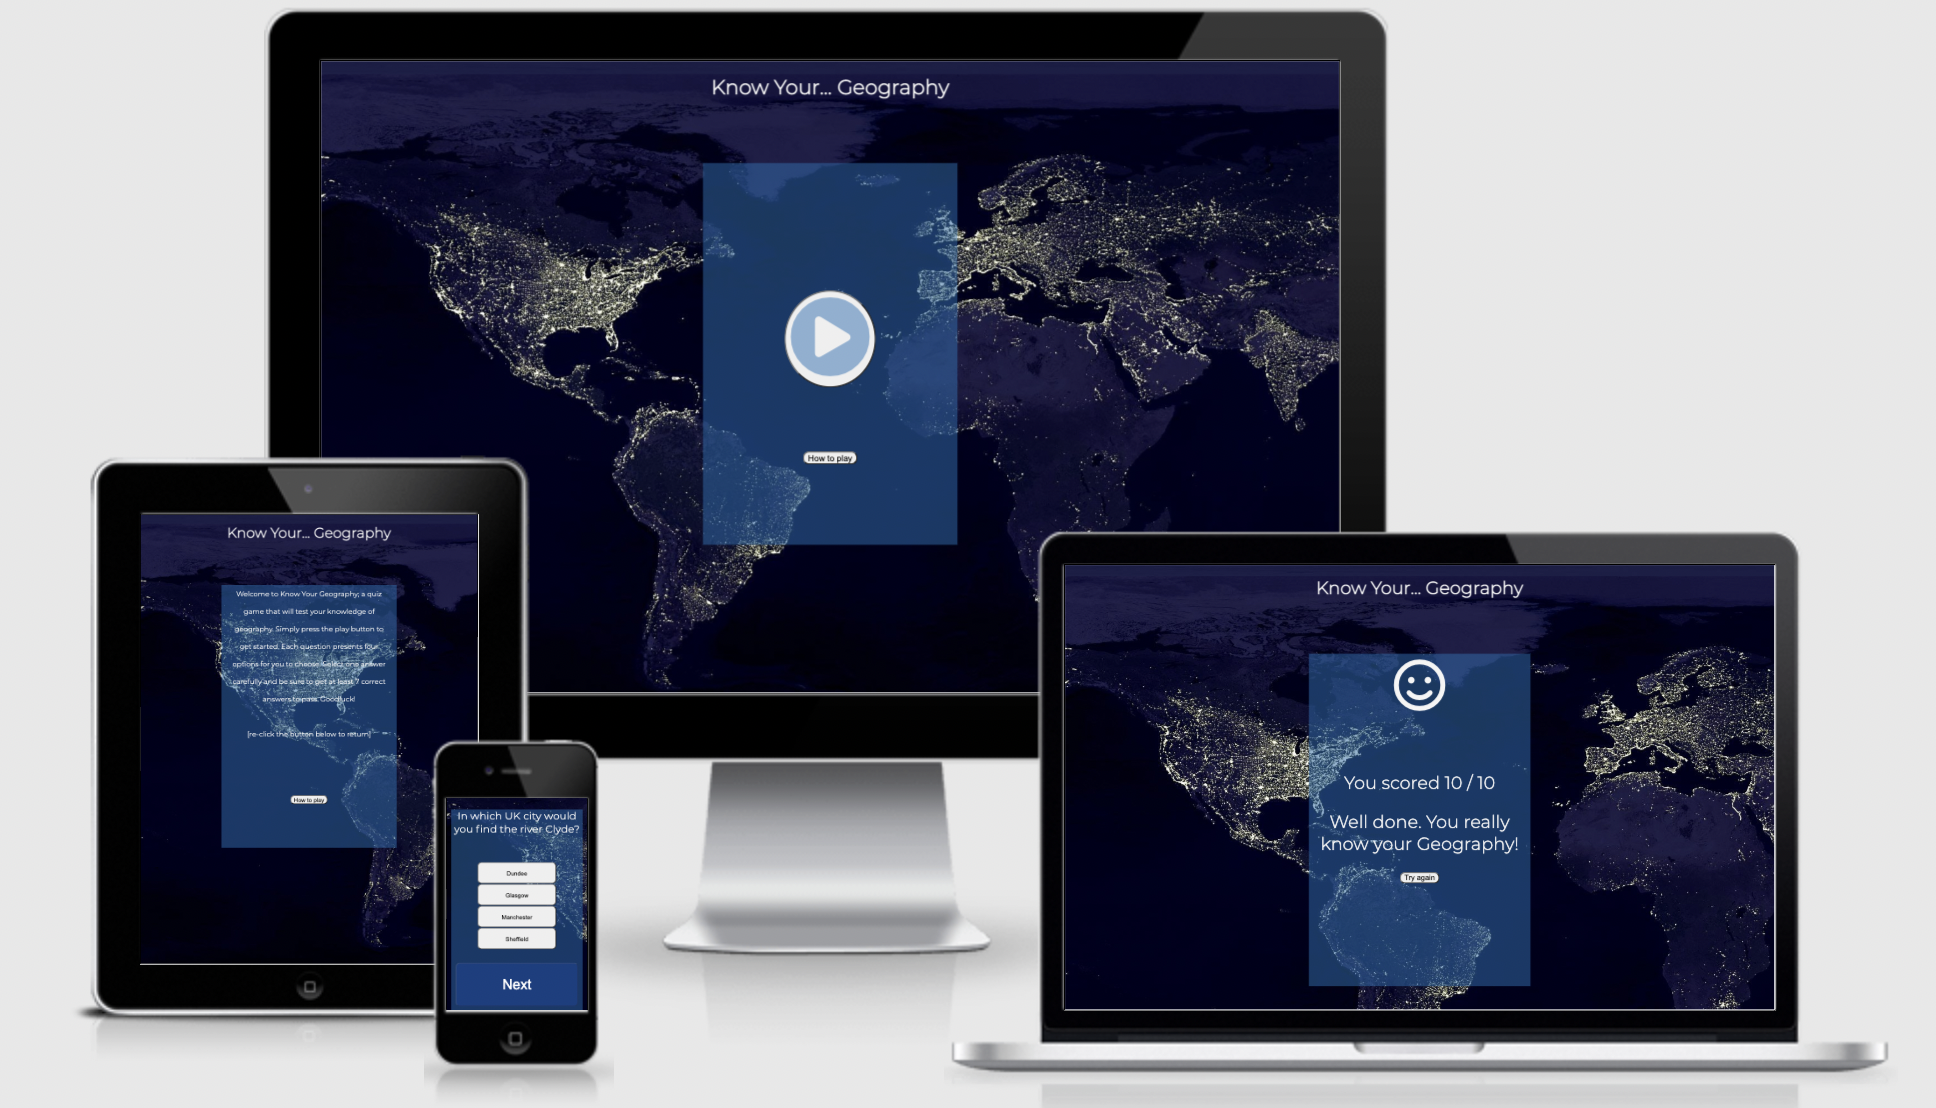
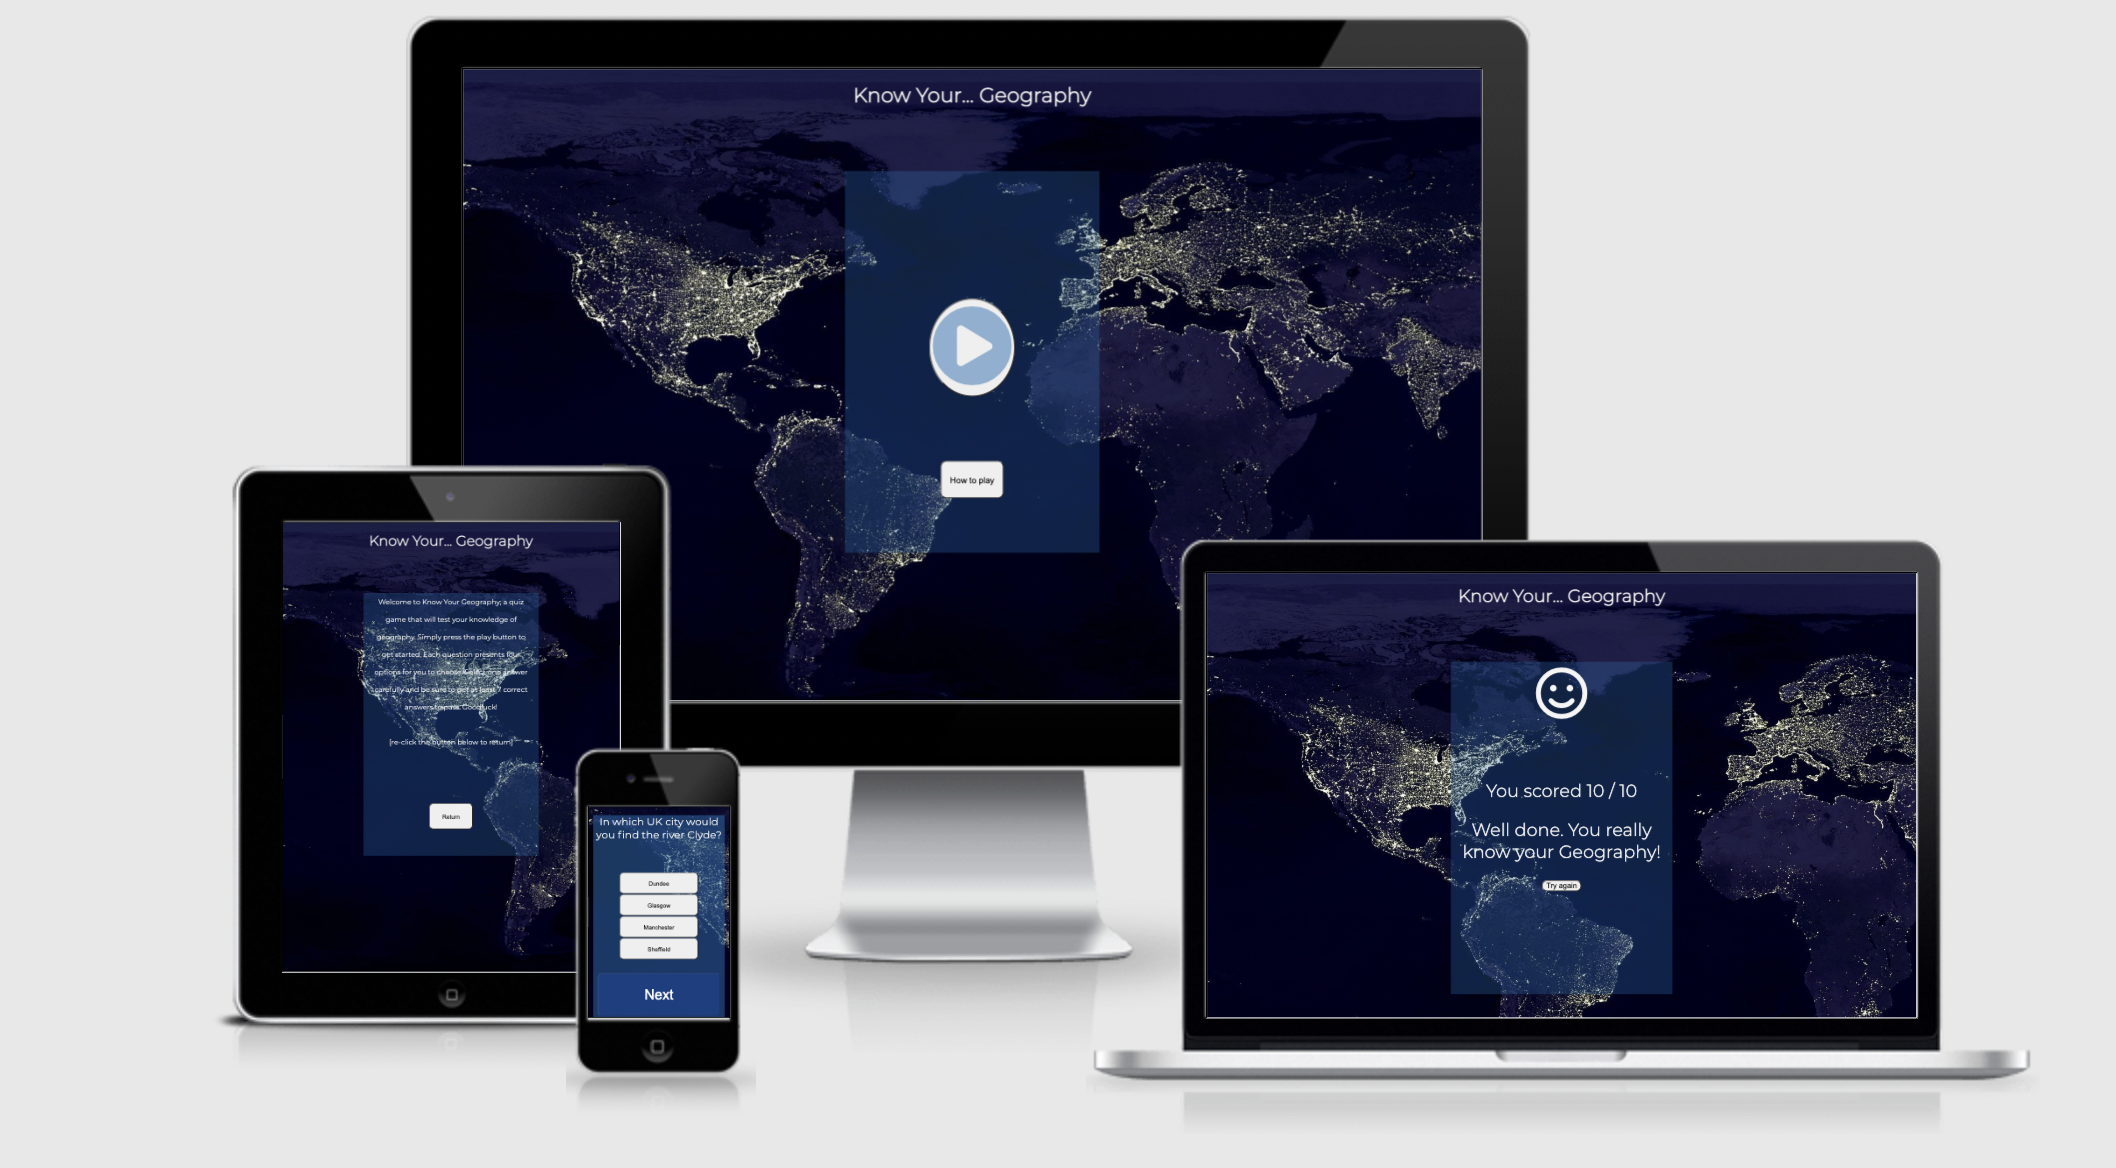
update readme images

diff --git a/assets/js/script.js b/assets/js/script.js
@@ -69,7 +69,7 @@ const CONGRATULATIONS = document.getElementById("congratulations");
 const TRY_AGAIN = document.getElementById("try-again");
 let instructions = document.getElementById("how-to-play");
 let instructionsButton = document.getElementById("how-to-play-button");
-let instructionsVisable = false;
+let instructionsVisible = false;
 const RESULTS_SCORE = document.getElementsByClassName("result-score"); //currently represented within two seperate containers (Congratualtions / try-again)
 const RESTART_GAME = document.getElementsByClassName("restart-button");
 
@@ -83,10 +83,10 @@ SCORE_TEXT.textContent=score;
 * the 'How to play' button
 */
 function showInstructions() {
-    PLAY_BUTTON.style.display= instructionsVisable ? "none": "";
-    instructions.style.display = instructionsVisable ? "": "none";
-    instructionsButton.textContent = instructionsVisable ? "Return": "How to play";
-    instructionsVisable = !instructionsVisable;
+    PLAY_BUTTON.style.display= instructionsVisible ? "none": "";
+    instructions.style.display = instructionsVisible ? "": "none";
+    instructionsButton.textContent = instructionsVisible ? "Return": "How to play";
+    instructionsVisible = !instructionsVisible;
 }
 
 /**

diff --git a/index.html b/index.html
@@ -24,9 +24,6 @@
                     Simply press the play button to get started. Each question presents four options for you to choose. 
                     Select one answer carefully and be sure to get at least 7 correct answers to pass. 
                     Goodluck!
-                    <br>
-                    <br>
-                    [re-click the button below to return]
                 </p>
             </div>
             <div>

diff --git a/README.md b/README.md
@@ -18,7 +18,7 @@ A simple header with the game title appears at the top of the page and remains t
 
 - __Background__
 
-A background image relating to the game subject sits visable throughout the game. Image was sourced from [pexels.com](https://www.pexels.com/).
+A background image relating to the game subject sits visible throughout the game. Image was sourced from [pexels.com](https://www.pexels.com/).
 
 <img src="assets/images/earth-background.png">
 
@@ -78,7 +78,7 @@ User is notified of their overall score at end of game informing the user if the
 
 ## Testing
 
-A seperate testing file can be found [here]()
+A seperate testing file can be found [here](https://github.com/jamitag/Know-Your-Geography/blob/main/testing.md)
 
 ## Technologies
 

diff --git a/testing.md b/testing.md
@@ -61,4 +61,4 @@ I used a solution from a comment found [here](https://stackoverflow.com/question
 I tested the site for reponsivness on iamresponsive.com which showed the site working and looking as expected across varying device sizes however, when opened on an actual device (mobile) the play button on the homepage appeared oval shape.
 
 - <b>Solution</b>
-Using media queries, take off the border radius for mobile screens
+My mentor suggested adding some padding to the icon which fixed the issue.
